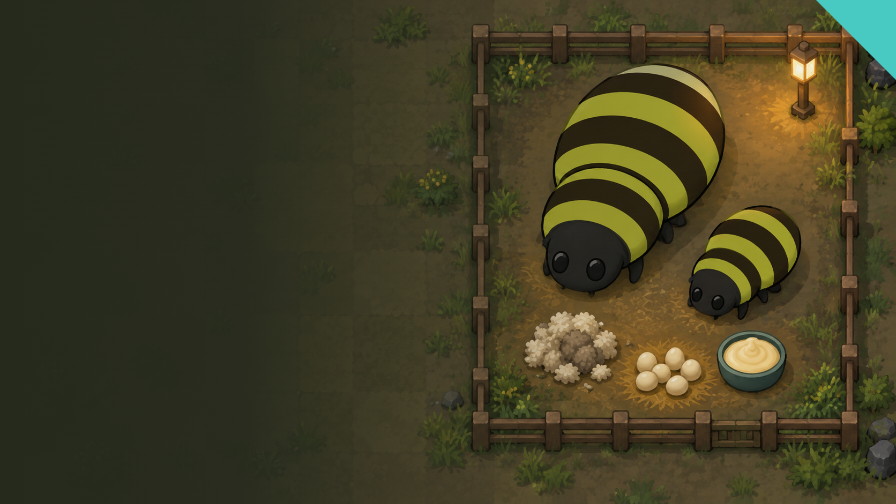
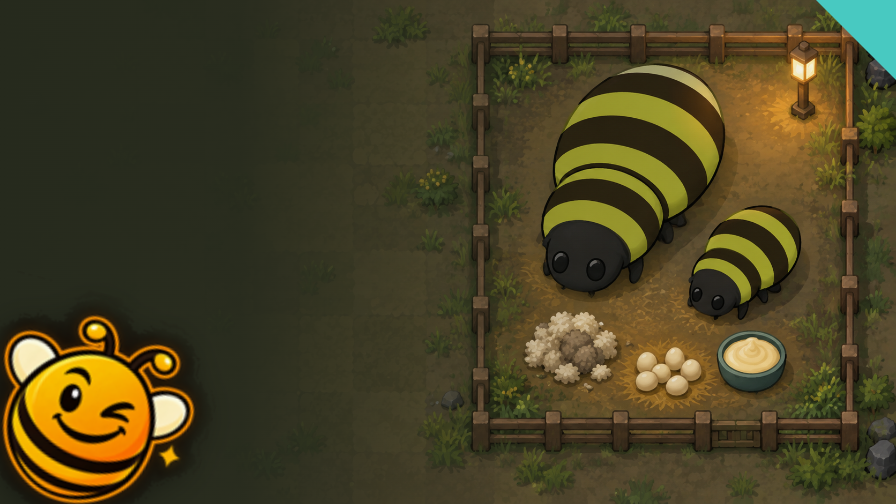
Showcase 2026-09-29: cutout ModIcon on Preview, gallery 00 = Preview copy
Preview.png now carries the flood-filled ModIcon in the bottom-left
corner (+15deg), left empty by the top-left copy block. Art/Workshop/
holds the upload-ready gallery, starting at 00-preview.png (byte copy
of Preview.png per the new numbering rule).

Changed region(s): [[0.0, 0.625, 0.2188, 1.0]]

diff --git a/Art/preview.html b/Art/preview.html
@@ -11,7 +11,8 @@ h1 span{font-size:.65em;color:var(--inkSecondary)}
 p{font-size:21px;line-height:1.45;margin:0;width:370px}
 .badge{position:absolute;right:0;top:0;width:80px;height:80px;background:var(--accent);clip-path:polygon(0 0,100% 0,100% 100%)}
 .version{position:absolute;left:869px;top:27px;transform:translate(-50%,-50%) rotate(45deg);font-size:26px;line-height:1;font-weight:700;color:var(--badgeInk)}
-</style><div class="veil"></div><div class="copy"><h1>Megabees<br><span>Renew</span></h1><div class="tag">(unofficial)</div><div class="rule"></div><p>Giant bees.<br>Wool, eggs and tallow.</p></div><div class="badge"></div><div class="version">1.6</div>
+.icon{position:absolute;left:-30px;bottom:-30px;width:240px;height:240px;transform:rotate(15deg);filter:drop-shadow(0 6px 16px rgba(0,0,0,.6))}
+</style><div class="veil"></div><div class="copy"><h1>Megabees<br><span>Renew</span></h1><div class="tag">(unofficial)</div><div class="rule"></div><p>Giant bees.<br>Wool, eggs and tallow.</p></div><div class="badge"></div><div class="version">1.6</div><img class="icon" src="ModIcon-cutout.png" alt="">
 <script>
 fetch('preview-palette.json').then(r=>r.json()).then(p=>{for(const [k,v] of Object.entries(p))document.documentElement.style.setProperty('--'+k,v);return document.fonts.ready}).then(()=>document.body.dataset.ready='true');
 </script></html>
